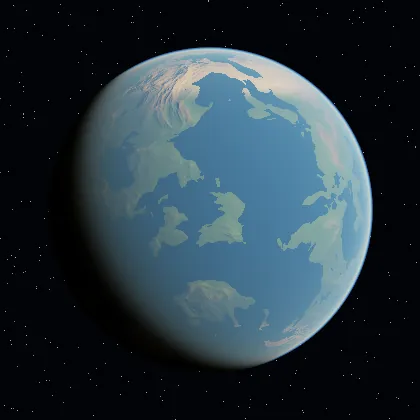
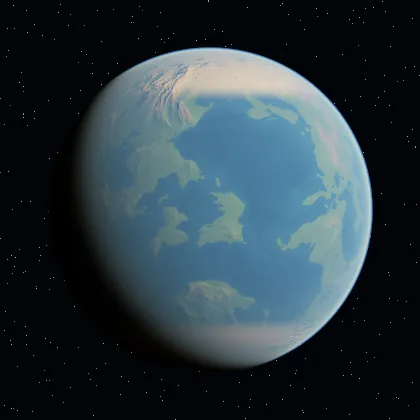
planet: give Earth-like worlds real oceans; add Mars/Moon scenes; drop marker
The viewer showed the planet as all landmass: generatePlanet coloured below-
sea-level vertices with the lowest LAND tone and left the terrain unflattened,
while the blue ocean lived in a separate shell mesh the planet.rocky recipe
never returns. (The preview tool hid this — it had its own ocean override — so
the thumbnail looked right while the real mesh didn't.)

Fix it in the generator so every consumer agrees:
- planetSurfaceColor now returns depth-tinted water (bright shelf -> deep blue,
  ice caps over frozen sea) below sea level on ocean worlds;
- generatePlanet flattens the sea floor up to one water surface at sea level, so
  continents rise out of an ocean instead of tiling uniform terrain;
- both gated on hasOcean, so Mars/Moon (airless) are untouched.
Preview's redundant ocean override drops out, so its thumbnail matches the mesh.

Add planet_mars / planet_moon scenes (different presets of the same generator)
plus gallery entries plus regenerated thumbnails, and remove the diagnostic
marker sphere (the "lens flare") now that rendering is confirmed.

Test: earthlike_planet_has_both_ocean_and_land (912/912 cases pass).

Claude-Session: https://claude.ai/code/session_01SywhGxuwccxTMEBTbFjs4A

Changed region(s): [[0.4333, 0.1238, 0.65, 0.2476], [0.4643, 0.7738, 0.7119, 0.8357]]

diff --git a/src/engine/procgen/planet.cpp b/src/engine/procgen/planet.cpp
@@ -104,16 +104,26 @@ double planetHeight(const PlanetParams& p, uint32_t seed, const Vec3& dir) {
 }
 
 Vec3 planetSurfaceColor(const PlanetParams& p, uint32_t seed, const Vec3& dir) {
-    // A grey fallback ramp so a bare PlanetParams still colours to something sane.
-    ColorRamp ramp = p.landRamp;
-    if (ramp.stops.empty()) {
-        ramp = ColorRamp{{0.0, Vec3(0.32, 0.30, 0.28)}, {0.6, Vec3(0.55, 0.52, 0.48)},
-                         {1.0, Vec3(0.80, 0.78, 0.75)}};
-    }
     double h = planetHeight(p, seed, dir);
-    double elev = clampd((h - p.seaLevel) / std::max(1e-3, 1.0 - p.seaLevel), 0.0, 1.0);
-    Vec3 c = ramp.eval(elev);
-    if (p.polarCaps) {
+    Vec3 c;
+    if (p.hasOcean && h < p.seaLevel) {
+        // Water: bright coastal shelves fading to deep blue with depth, so seas read
+        // as water rather than the lowest land tone. (generatePlanet flattens the
+        // matching geometry to a single sea surface.)
+        double depthN = clampd((p.seaLevel - h) / 0.15, 0.0, 1.0);
+        Vec3 shallow = clampVec(p.oceanColor * 1.7, 0.0, 1.0);
+        c = lerp(shallow, p.oceanColor, depthN);
+    } else {
+        // A grey fallback ramp so a bare PlanetParams still colours to something sane.
+        ColorRamp ramp = p.landRamp;
+        if (ramp.stops.empty()) {
+            ramp = ColorRamp{{0.0, Vec3(0.32, 0.30, 0.28)}, {0.6, Vec3(0.55, 0.52, 0.48)},
+                             {1.0, Vec3(0.80, 0.78, 0.75)}};
+        }
+        double elev = clampd((h - p.seaLevel) / std::max(1e-3, 1.0 - p.seaLevel), 0.0, 1.0);
+        c = ramp.eval(elev);
+    }
+    if (p.polarCaps) {                          // ice caps over land AND frozen sea
         double capMask = smoothstep(p.capLatitude - 0.06, p.capLatitude + 0.06,
                                     std::fabs(dir.y));
         c = lerp(c, p.capColor, capMask);
@@ -128,7 +138,11 @@ RenderMesh generatePlanet(const PlanetParams& p, uint32_t seed) {
     for (Vertex& v : mesh.vertices) {
         Vec3 dir = normalize(v.position);
         double h = planetHeight(p, seed, dir);
-        v.position = dir * (static_cast<double>(p.radius) + amp * h);
+        // Ocean worlds flatten the sea floor up to one water surface at sea level, so
+        // continents read as land rising from an ocean, not uniform terrain. Colour
+        // (land ramp or depth-tinted water) comes from planetSurfaceColor.
+        double surfaceH = (p.hasOcean && h < p.seaLevel) ? p.seaLevel : h;
+        v.position = dir * (static_cast<double>(p.radius) + amp * surfaceH);
         v.color = planetSurfaceColor(p, seed, dir);
     }
 

diff --git a/tests/test_planet.cpp b/tests/test_planet.cpp
@@ -140,6 +140,22 @@ TEST_CASE(planet_mesh_radii_stay_within_the_relief_band) {
     }
 }
 
+TEST_CASE(earthlike_planet_has_both_ocean_and_land) {
+    // An ocean world (hasOcean) flattens the sea floor to a water surface and tints
+    // it blue, so the mesh carries BOTH blue-dominant water vertices and green/brown
+    // land — not a uniform landmass. Airless presets (hasOcean=false) are unaffected.
+    PlanetParams p = planetEarthlike();
+    p.faceRes = 48;
+    RenderMesh m = generatePlanet(p, 1);
+    int ocean = 0, land = 0;
+    for (const Vertex& v : m.vertices) {
+        bool blueDominant = v.color.z > v.color.x + 0.05 && v.color.z > v.color.y + 0.02;
+        if (blueDominant) ocean++; else land++;
+    }
+    CHECK(ocean > 100);   // real seas, not a lake
+    CHECK(land > 100);    // and real continents
+}
+
 TEST_CASE(planet_generation_is_deterministic_and_seed_varies) {
     PlanetParams p = planetMoon();
     p.faceRes = 16;

diff --git a/tools/planet_preview.cpp b/tools/planet_preview.cpp
@@ -93,8 +93,8 @@ static void renderRocky(const PlanetParams& p, uint32_t seed, const char* file, 
                 if (dot(N, dirN) < 0) N = N * -1.0;
 
                 double h = planetHeight(p, seed, sdir(dirN));
-                Vec3 albedo = planetSurfaceColor(p, seed, sdir(dirN));
-                if (p.hasOcean && h < p.seaLevel) { albedo = p.oceanColor; N = dirN; }
+                Vec3 albedo = planetSurfaceColor(p, seed, sdir(dirN));   // ocean-aware
+                if (p.hasOcean && h < p.seaLevel) N = dirN;   // flat water surface normal
 
                 double ndl = std::max(0.0, dot(N, sun));
                 Vec3 ground;
